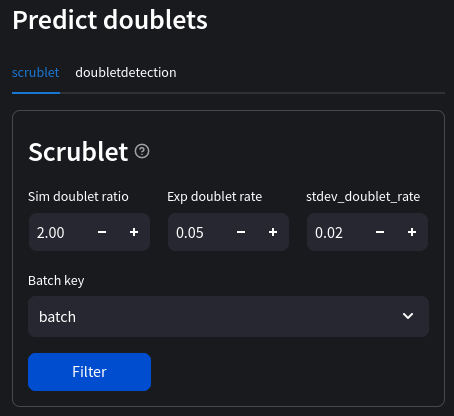
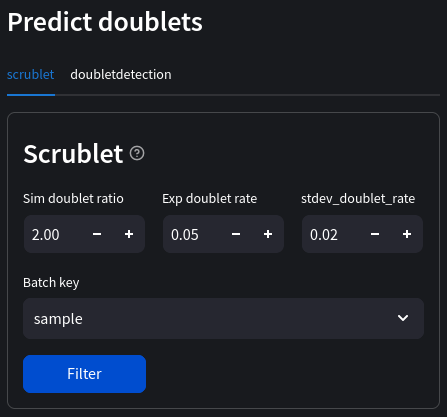
updated docs

diff --git a/app/pages/2_Preprocess.py b/app/pages/2_Preprocess.py
@@ -1,3 +1,4 @@
+from anndata import AnnData
 import streamlit as st
 import scanpy as sc
 import pickle
@@ -67,7 +68,7 @@ class Preprocess:
         Gene expression matrix. 
     """
 
-    def __init__(self, adata):
+    def __init__(self, adata: AnnData):
         self.adata = adata
         self.conn: Session = SessionLocal()
         st.title("Preprocess")
@@ -786,7 +787,7 @@ class Preprocess:
             stdev_doublet_rate = col3.number_input(label="stdev_doublet_rate", value=0.02, key="ni_stdev_doublet_rate")
             batch_key = st.selectbox(label="Batch key", key="sb_scrublet_batch_key", options=np.append('None', self.adata.obs_keys()))
             subcol1, _, _ = st.columns(3)
-            scrublet_submit = subcol1.form_submit_button(label="Filter", use_container_width=True)
+            scrublet_submit = subcol1.form_submit_button(label="Run", use_container_width=True)
 
             if scrublet_submit:
                 try:
@@ -800,13 +801,40 @@ class Preprocess:
                         sc.pp.pca(self.adata)
                         sc.pp.neighbors(self.adata)
                         sc.tl.umap(self.adata)
-                        pca, umap, distplot, simulated_doublets = st.tabs(['PCA', 'UMAP', 'Distplot', 'Simulated doublets'])
-                        with pca:
-                            df = pd.DataFrame({'PCA 1': self.adata.obsm['X_pca'][:,0], 'PCA 2': self.adata.obsm['X_pca'][:,1], 'Predicted doublet': self.adata.obs.predicted_doublet})
-                            st.scatter_chart(df, x='PCA 1', y='PCA 2', color='Predicted doublet', size=10)
+                        stats, umap, distplot, simulated_doublets = st.tabs(['Stats', 'UMAP', 'Distplot', 'Simulated doublets'])
+                        with stats:
+                            num_of_doublets = self.adata.obs.predicted_doublet.sum()
+                            predicted_doublets = '{:.2%}'.format(num_of_doublets / self.adata.n_obs)
+                            st.write(f"Number of predicted doublets: {num_of_doublets}")
+                            st.write(f"Percentage of predicted doublets: {predicted_doublets}")
+                            if batch_key:
+                                self.adata.obs[batch_key] = self.adata.obs[batch_key].astype('category')
+                                batches = self.adata.obs[batch_key].cat.categories
+                                stats_df = pd.DataFrame(columns=['batch', 'mean_doublet_score', 'doublet_rate'])
+                                stats_df['batch'] = np.array(batches)
+                                for batch in batches:
+                                    stats_df['mean_doublet_score'].loc[stats_df.batch == batch] = self.adata.obs.doublet_score[self.adata.obs[batch_key] == batch].mean()
+                                    stats_df['doublet_rate'].loc[stats_df.batch == batch] = \
+                                        self.adata.obs.predicted_doublet[self.adata.obs[batch_key] == batch].sum() / self.adata[self.adata.obs[batch_key] == batch].n_obs
+                                # add % sign
+                                stats_df['doublet_rate'] = stats_df['doublet_rate'].map('{:.2%}'.format)
+                                st.dataframe(stats_df, hide_index=True, use_container_width=True,
+                                    column_config={
+                                        "mean_doublet_score": st.column_config.NumberColumn(
+                                            "Mean doublet score",
+                                            help="Mean doublet score relative to each batch",
+                                        ),
+                                        "doublet_rate": st.column_config.TextColumn(
+                                            "Doublet rate",
+                                            help="Percentage of doublets relative to each batch",
+                                        ),
+                                    }
+                                )
+
+
                         with umap:
-                            df = pd.DataFrame({'UMAP 1': self.adata.obsm['X_umap'][:,0], 'UMAP 2': self.adata.obsm['X_umap'][:,1], 'Predicted doublet': self.adata.obs.predicted_doublet})
-                            st.scatter_chart(df, x='UMAP 1', y='UMAP 2', color='Predicted doublet', size=10)
+                            df = pd.DataFrame({'UMAP 1': self.adata.obsm['X_umap'][:,0], 'UMAP 2': self.adata.obsm['X_umap'][:,1], 'Doublet score': self.adata.obs.doublet_score})
+                            st.scatter_chart(df, x='UMAP 1', y='UMAP 2', color='Doublet score', size=10)
                         with distplot:
                             if batch_key:
                                 for i, batch in enumerate(self.adata.obs[batch_key].unique()):

diff --git a/docs/tutorials/clustering/Preprocess.md b/docs/tutorials/clustering/Preprocess.md
@@ -131,7 +131,21 @@ Notice the banding patterns representing our batches? This could lead to misinte
 
 ### Doublet prediction & removal using scrublet
 
+Doublets or multiplets are caused when 2 or more cells take up the same droplet in droplet-based scRNA-seq protocols. This gives the appearance of upregulated genes when in fact it is including RNA counts from 2 different cells. One of the ways Doublets can cause issues is by forming their own clusters when performing dimensionality reduction, which don't reflect any biologically distinct cell population. 
+
+<img alt='page screenshot' src='https://raw.githubusercontent.com/nuwa-genomics/Nuwa/main/docs/assets/images/screenshots/clustering_tutorial/doublet_diagram.png'>
+
+In a typical 10x experiment the proportion of doublets is linearly dependent on the amount of loaded cells. In our covid dataset, we actually have a subsample (the original contained more groups including an influenza group which we removed). The original dataset contained about 5000 cells per sample, which equates to around 9000 cells loaded in. From the specs in the [10x Chromium user guide](https://cdn.10xgenomics.com/image/upload/v1668017706/support-documents/CG000315_ChromiumNextGEMSingleCell3-_GeneExpression_v3.1_DualIndex__RevE.pdf) (see page 18) we can see that for every ~1000 cells recovered, about 0.8% are estimated to be doublets. So we can predict that ~4% of our library samples will be doublets (0.04 x 5000).
+
+Let's run Scrublet to predict doublets and remove them from our dataset. We'll leave most of the default parameters, but use 'sample' as our batch key as this will allow us to see the names of each batch. 
+
 <img style='border-radius:10px; box-shadow: 5px 5px 10px rgb(0 0 0 / 0.5);' alt='page screenshot' src='https://raw.githubusercontent.com/nuwa-genomics/Nuwa/main/docs/assets/images/screenshots/clustering_tutorial/scrublet.png'>
+
+<img style='border-radius:10px; box-shadow: 5px 5px 10px rgb(0 0 0 / 0.5);' alt='page screenshot' src='https://raw.githubusercontent.com/nuwa-genomics/Nuwa/main/docs/assets/images/screenshots/clustering_tutorial/scrublet_stats.png'>
+
+<img style='border-radius:10px; box-shadow: 5px 5px 10px rgb(0 0 0 / 0.5);' alt='page screenshot' src='https://raw.githubusercontent.com/nuwa-genomics/Nuwa/main/docs/assets/images/screenshots/clustering_tutorial/scrublet_umap.png'>
+
+<img style='border-radius:10px; box-shadow: 5px 5px 10px rgb(0 0 0 / 0.5);' alt='page screenshot' src='https://raw.githubusercontent.com/nuwa-genomics/Nuwa/main/docs/assets/images/screenshots/clustering_tutorial/scrublet_distplot.png'>
 
 ## Data transformations
 
